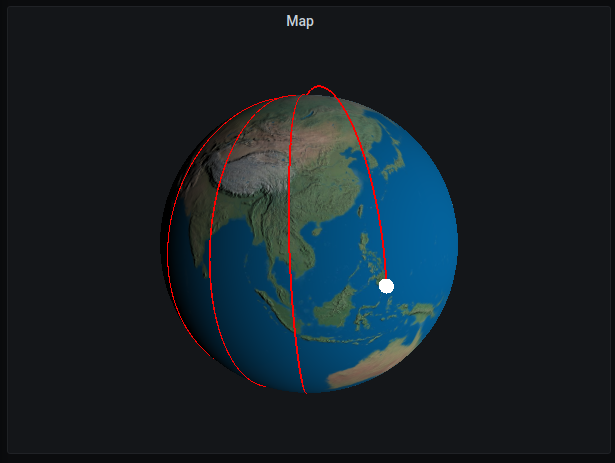
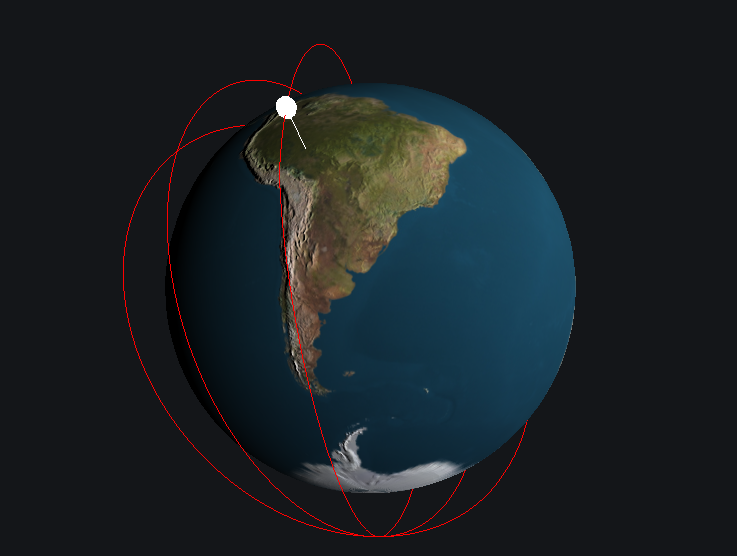
improved marker, minor refactors, updated screenshot

diff --git a/src/MapTrack3D.tsx b/src/MapTrack3D.tsx
@@ -21,7 +21,6 @@ interface Props extends PanelProps<MapTrack3DOptions> {}
 interface ThreeJSObjectsI {
   pathGeometry: THREE.Geometry | null;
   scene: THREE.Scene | null;
-  pathLine: any;
   camera: any;
   renderer: any;
   animationRequestId: any;
@@ -54,7 +53,6 @@ export const MapTrack3D: React.FC<Props> = ({ options, data, width, height }) =>
   const threeJsObjects = useRef<ThreeJSObjectsI>({
     pathGeometry: null,
     scene: null,
-    pathLine: null,
     camera: null,
     renderer: null,
     animationRequestId: null,
@@ -72,11 +70,33 @@ export const MapTrack3D: React.FC<Props> = ({ options, data, width, height }) =>
   const earthRad = 6731000;
   const markerRad = 200000;
   const scale = 100000;
+  const defaultPathAltitude = 10;
 
+  // Updates the position of the line marker that points to the center of the globe
+  const updateLineMarker = (scene: THREE.Scene, point: TimeVec3) => {
+    const lineMarker = scene.getObjectByName('lineMarker');
+    if (lineMarker !== undefined) {
+      scene.remove(lineMarker);
+    }
+    const l = new THREE.Geometry();
+    l.vertices.push(new THREE.Vector3(0, 0, 0));
+    l.vertices.push(new THREE.Vector3(point.x, point.y, point.z));
+    const newLineMarker = new THREE.Line(
+      l,
+      new THREE.LineBasicMaterial({ color: 0xffffff, linewidth: options.lineWidth })
+    );
+    newLineMarker.name = 'lineMarker';
+    scene.add(newLineMarker);
+  };
+
+  // Show marker on the panel when user hovers over other graphs
   SystemJS.load('app/core/app_events').then((appEvents: any) => {
     appEvents.on('graph-hover', (e: any) => {
       threeJsObjects.current.cartPath?.find(point => {
         if (point.t >= e.pos.x && threeJsObjects.current.markerMesh !== null) {
+          if (threeJsObjects.current.scene) {
+            updateLineMarker(threeJsObjects.current.scene, point);
+          }
           threeJsObjects.current.markerMesh.position.x = point.x;
           threeJsObjects.current.markerMesh.position.y = point.y;
           threeJsObjects.current.markerMesh.position.z = point.z;
@@ -89,7 +109,6 @@ export const MapTrack3D: React.FC<Props> = ({ options, data, width, height }) =>
   });
 
   const loadNewTexture = useCallback(() => {
-    console.log('loading new texture');
     const texture = new THREE.TextureLoader().load(texturePath, render);
     threeJsObjects.current.earthMaterial.map = texture;
   }, [texturePath]);
@@ -124,14 +143,16 @@ export const MapTrack3D: React.FC<Props> = ({ options, data, width, height }) =>
     var orbitLength = lat_points.length;
 
     var last_llz = { latitude: lat_points.get(0), longitude: lon_points.get(0), altitude: 0 };
-    last_llz.altitude = data.series.length >= 3 ? data.series[2].fields[1].values.get(0) : 10;
+    last_llz.altitude = data.series.length >= 3 ? data.series[2].fields[1].values.get(0) : defaultPathAltitude;
 
     for (var i = 0; i < orbitLength; i++) {
-      var llz = { latitude: lat_points.get(i), longitude: lon_points.get(i), altitude: 0 };
-      llz.altitude =
-        data.series.length >= 3 && data.series[2].fields[1].values.length > i
-          ? data.series[2].fields[1].values.get(i)
-          : 10;
+      var llz = { latitude: lat_points.get(i), longitude: lon_points.get(i), altitude: defaultPathAltitude };
+      if (data.series.length >= 3) {
+        llz.altitude =
+          data.series[2].fields[1].values.length > i
+            ? data.series[2].fields[1].values.get(i)
+            : data.series[2].fields[1].values.get(0);
+      }
 
       const φ1 = (last_llz.latitude * Math.PI) / 180,
         φ2 = (llz.latitude * Math.PI) / 180,
@@ -173,27 +194,27 @@ export const MapTrack3D: React.FC<Props> = ({ options, data, width, height }) =>
   }, [data]);
 
   useEffect(() => {
-    if (threeJsObjects.current.pathGeometry !== null) {
-      const l = new THREE.Line(
-        threeJsObjects.current.pathGeometry,
-        new THREE.LineBasicMaterial({ color: 0xff0000, linewidth: options.lineWidth })
-      );
-      threeJsObjects.current.scene?.add(l);
-      threeJsObjects.current.pathLine = l;
-    }
-  }, [options.lineWidth]);
+    if (threeJsObjects.current.pathGeometry) {
+      // Remove old path mesh
+      const oldPathMesh = threeJsObjects.current.scene?.getObjectByName('path');
+      if (oldPathMesh !== undefined) {
+        threeJsObjects.current.scene?.remove(oldPathMesh);
+      }
 
-  useEffect(() => {
-    threeJsObjects.current.pathLine.geometry = threeJsObjects.current.pathGeometry;
-  }, [data]);
+      if (threeJsObjects.current.pathGeometry.vertices.length > 1) {
+        const l = new THREE.Line(
+          threeJsObjects.current.pathGeometry,
+          new THREE.LineBasicMaterial({ color: 0xff0000, linewidth: options.lineWidth })
+        );
+        l.name = 'path';
+        threeJsObjects.current.scene?.add(l);
+      }
+    }
+  }, [options.lineWidth, data]);
 
   useEffect(() => {
     loadNewTexture();
   }, [options.customTextureURL, loadNewTexture]);
-
-  useEffect(() => {
-    threeJsObjects.current.pathLine.material.linewidth = options.lineWidth;
-  }, [options.lineWidth, options]);
 
   // Camera configuration
   useEffect(() => {

diff --git a/README.md b/README.md
@@ -1,6 +1,6 @@
 # MapTrack3D
 
-A plugin for Grafana that visualizes GPS points on a 3D globe
+A plugin for Grafana that visualizes GPS points on a 3D globe. A marker shows the position at the time when hovering over other panels on the dashboard.
 
 ![](src/img/screenshot.png)
 
